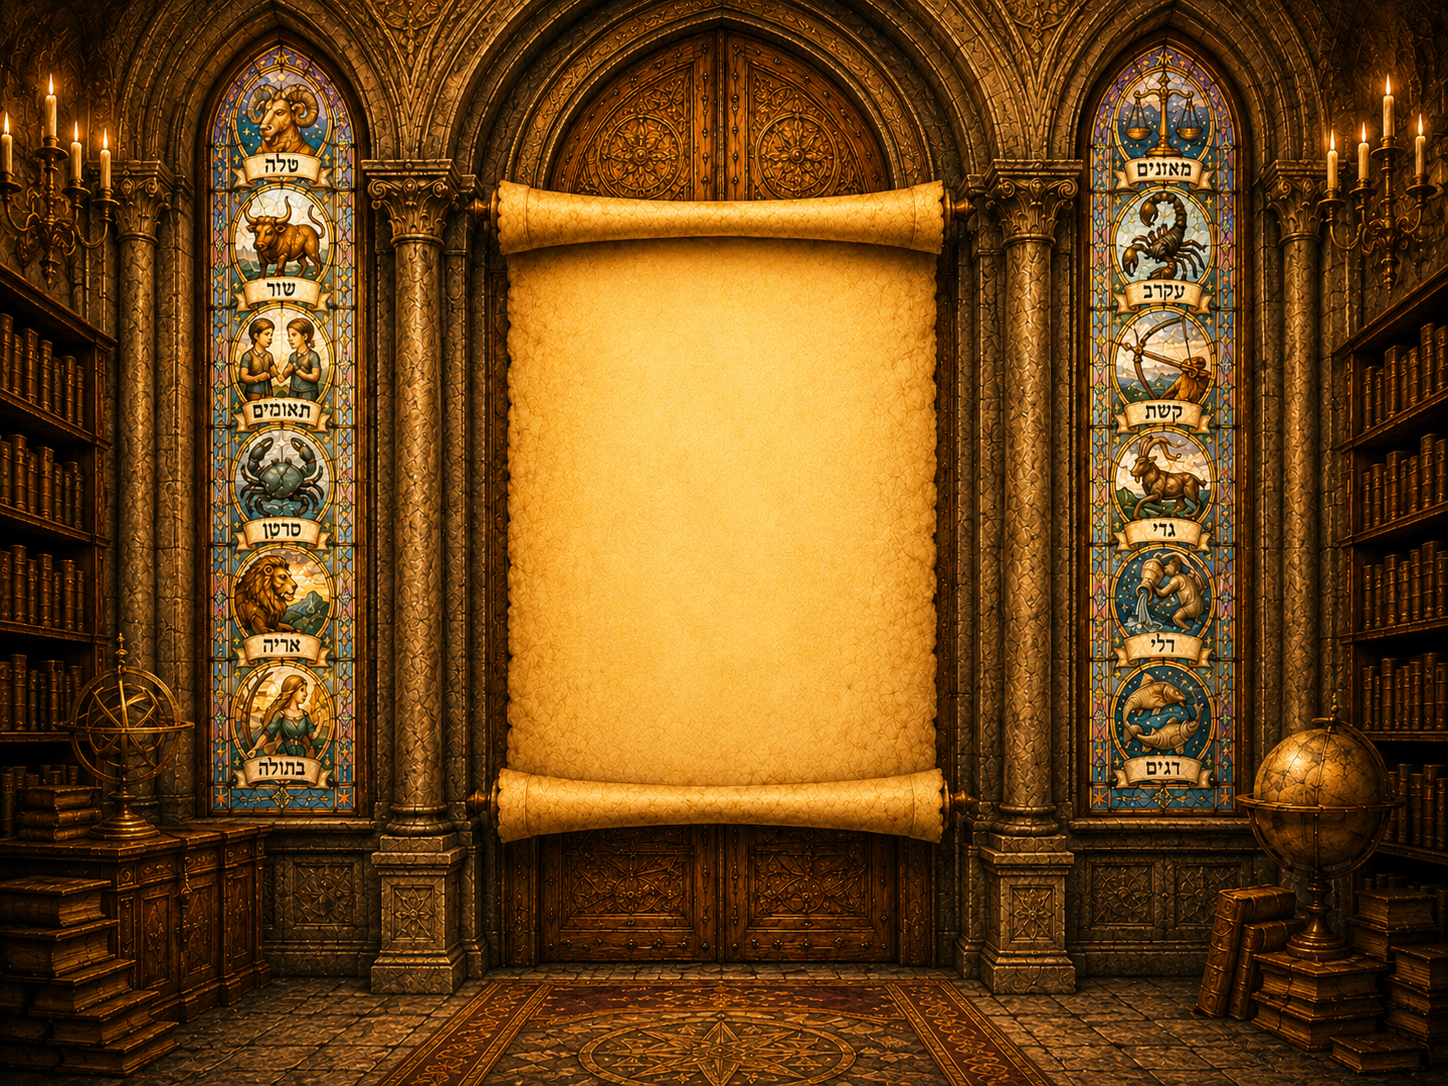
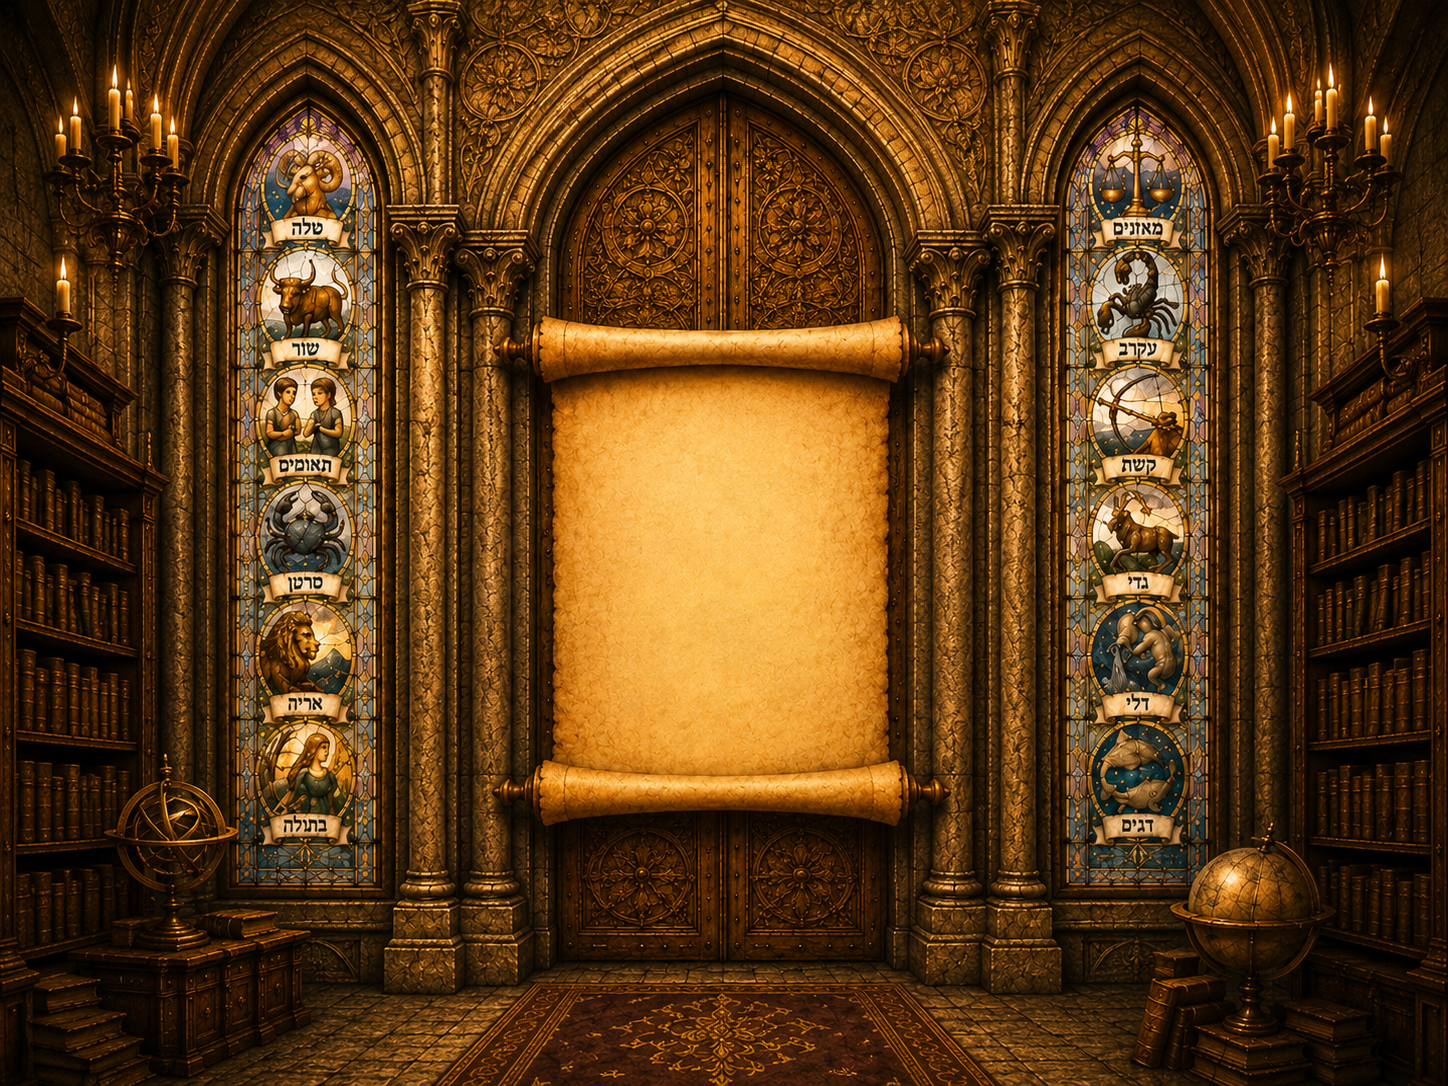
Login page: update iPad backgrounds with new images

diff --git a/index.html b/index.html
@@ -45,7 +45,7 @@ body::before {
 /* iPad portrait */
 @media (min-width: 768px) and (orientation: portrait) {
   body::before {
-    background-image: url('./login-bg-ipad-portrait.webp');
+    background-image: url('./login-bg-ipad-portrait.png');
   }
   .login-wrap {
     width: 30vw;
@@ -56,7 +56,7 @@ body::before {
 /* iPad landscape */
 @media (min-width: 768px) and (orientation: landscape) {
   body::before {
-    background-image: url('./login-bg-ipad-landscape.webp');
+    background-image: url('./login-bg-ipad-landscape.png');
   }
   .login-wrap {
     width: 26vw;
